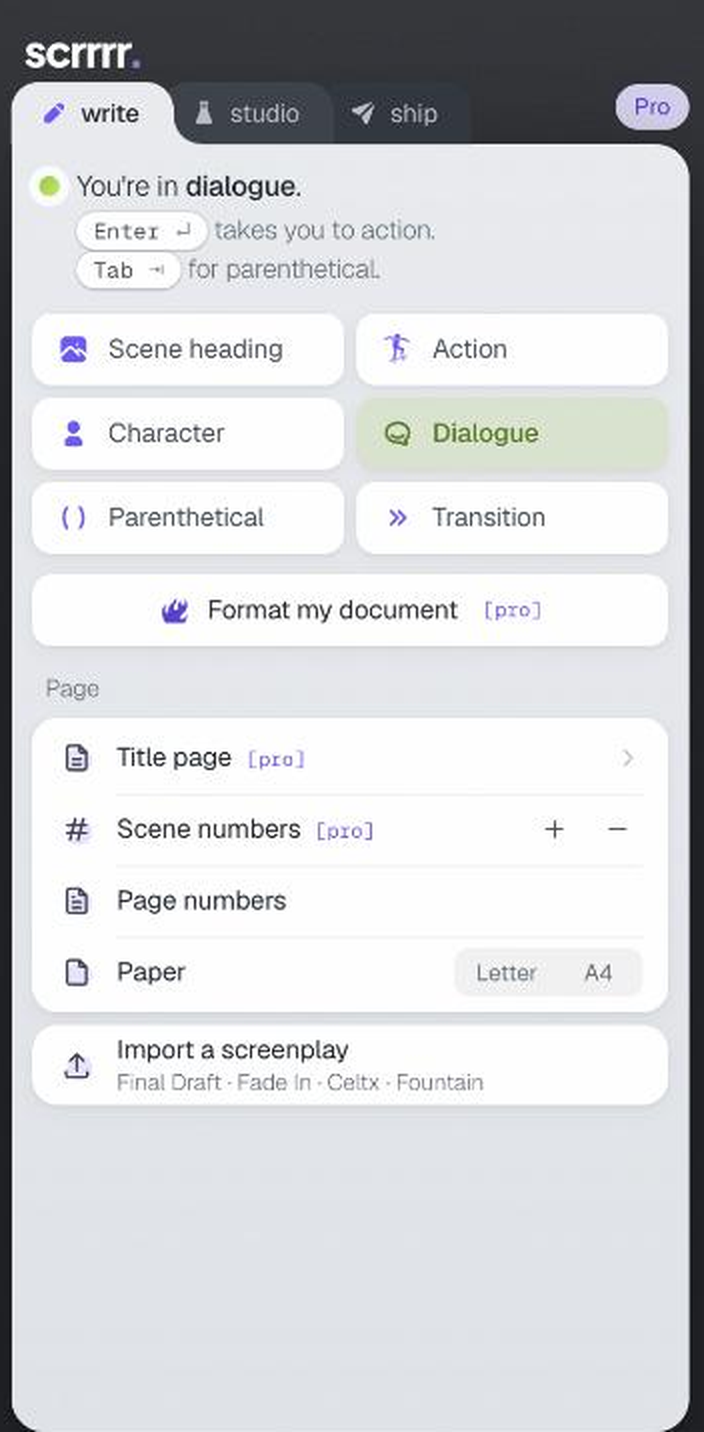
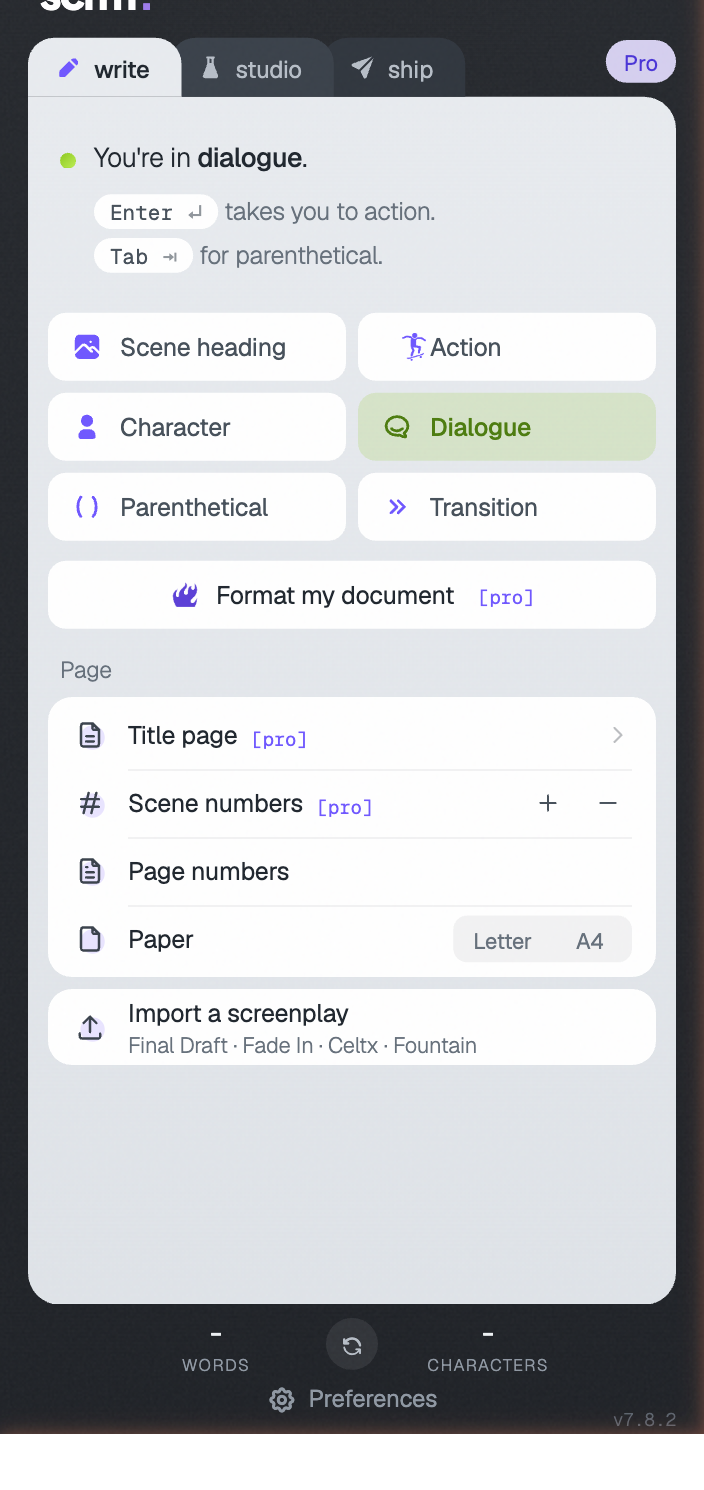
Page Word : nouvelle capture du volet, pleine hauteur avec le pied, en double densité
Claude-Session: https://claude.ai/code/session_01P8W3LLeLe5QXHWTDcbhje4

diff --git a/word/index.html b/word/index.html
@@ -25,7 +25,7 @@
     .hero .lead { max-width: 52ch; }
     .hero-actions { display: flex; flex-wrap: wrap; gap: 12px; margin-top: 26px; }
     .hero-note { font-size: var(--t-sm); color: var(--ink-3); margin-top: 14px; }
-    .shot { display: block; width: 100%; max-width: 300px; height: auto; aspect-ratio: 704 / 1432; margin: 0 auto; border-radius: 16px; box-shadow: var(--shadow-2); }
+    .shot { display: block; width: 100%; max-width: 300px; height: auto; aspect-ratio: 704 / 1490; margin: 0 auto; border-radius: 16px; box-shadow: var(--shadow-2); }
     .grid { display: grid; grid-template-columns: repeat(3, minmax(0, 1fr)); gap: 24px; padding: 30px 0 0; }
     .grid.two { grid-template-columns: repeat(2, minmax(0, 1fr)); }
     .section { padding-top: 70px; }
@@ -63,7 +63,7 @@
         <p class="hero-note">Microsoft 365 Word on the desktop, Mac or Windows. Word for the web is not supported. Free for a week, then the same licence as the extension.</p>
         <p class="hero-note hero-other">Writing in Google&nbsp;Docs? <a href="https://chromewebstore.google.com/detail/scrrrr-screenplay-editor/cgnainjnmiaimmeephomhkhpcjahmfln" target="_blank" rel="noopener">Add it to Chrome</a>, same editor, same licence.</p>
       </div>
-      <img class="shot" src="/word/pane.png" alt="The Screenplay Editor pane in Word: the six elements, Format my document, title page, scene numbers, import." width="704" height="1432">
+      <img class="shot" src="/word/pane.png?v=2" alt="The Screenplay Editor pane in Word: the six elements, Format my document, title page, scene numbers, import." width="704" height="1490">
     </section>
 
     <section class="wrap section">
